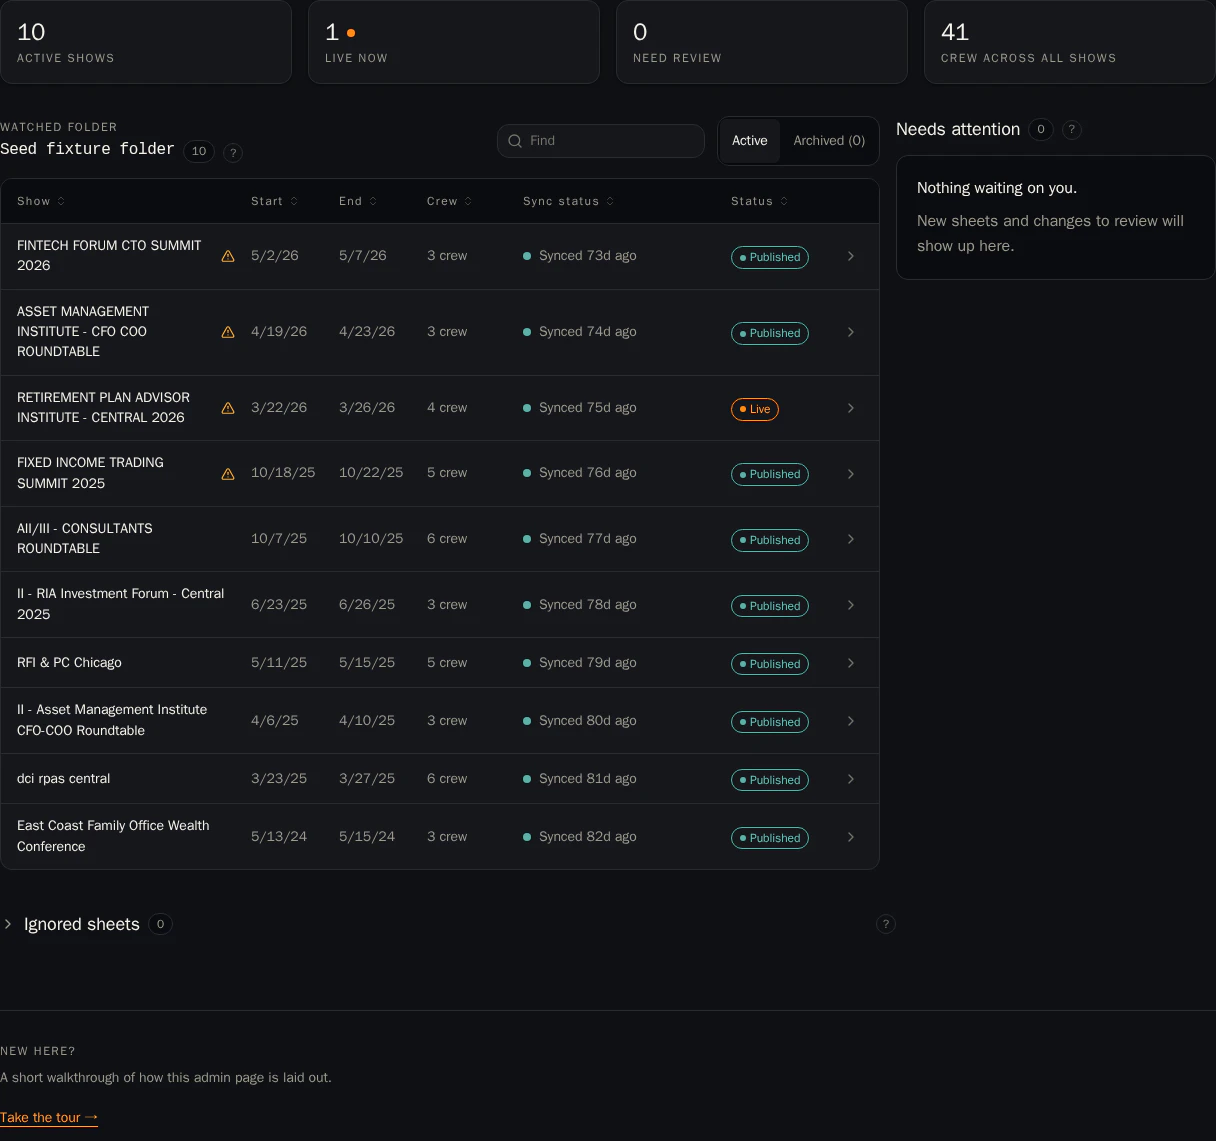
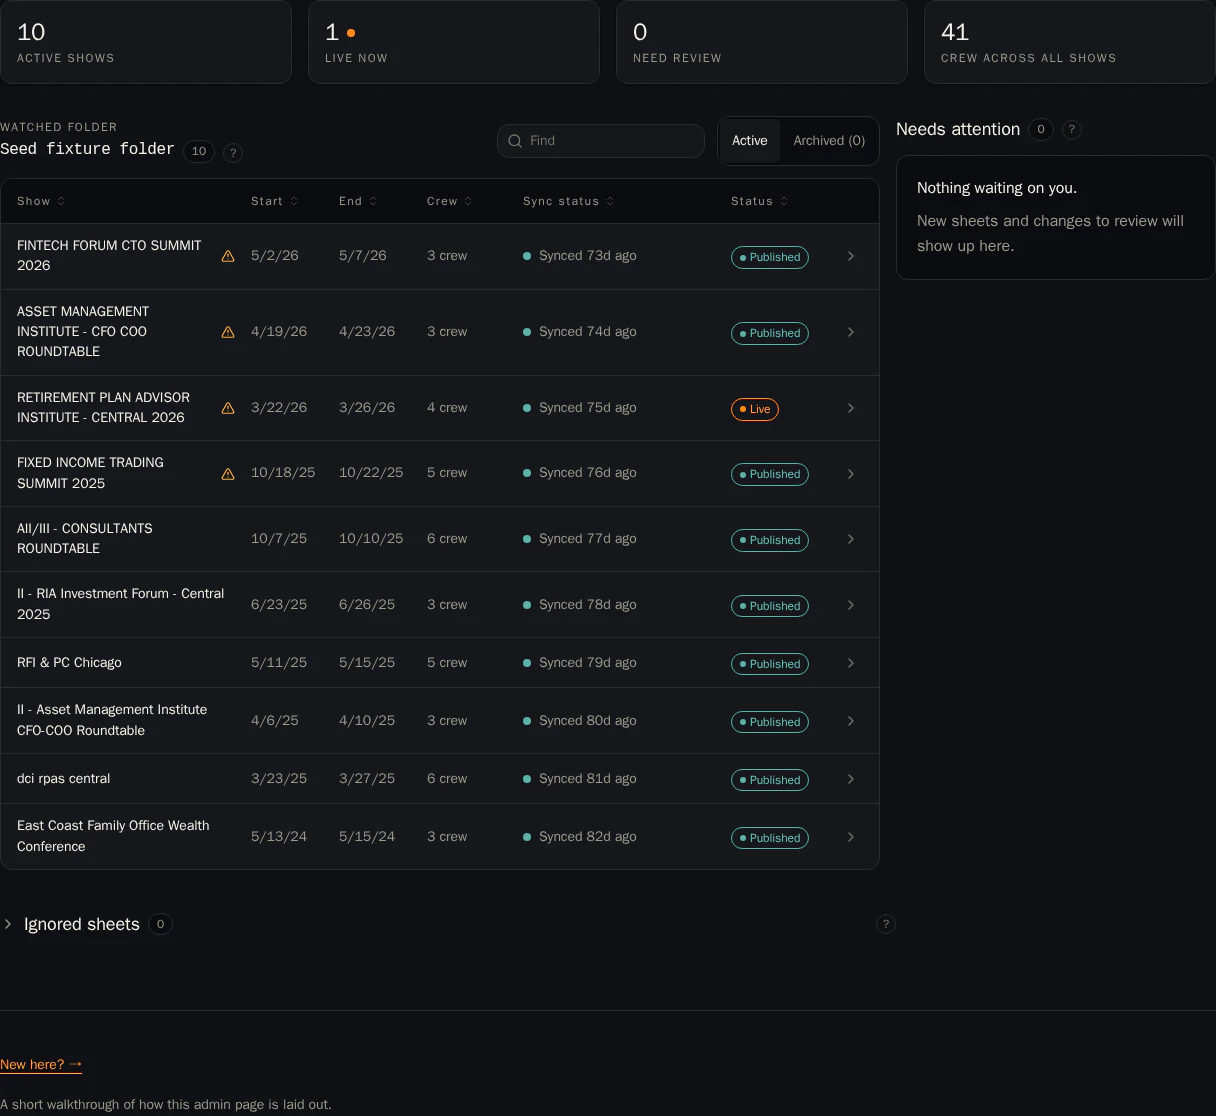
feat(admin): dashboard footer "New here?" prompt is the tour affordance
Retire the redundant "Take the tour →" link; the "New here?" prompt now
links to /help/tour directly (visible text "New here? →"). Preserves the
data-testid, href, aria-label, and single-text-run byte-stability rationale.

Updates the affordance matrix, the pinned footer/affordance unit tests, the
e2e deep-link-walker filter, and the spec §9.0.1 / AC-11.10 rendered-text
contracts to match.

Screenshot baselines (dashboard-overview-{light,dark}.webp) regenerated from
the pinned mcr.microsoft.com/playwright:v1.59.1-jammy image on a native-amd64
runner via the screenshots-regen workflow.

Claude-Session: https://claude.ai/code/session_01DLkG1nUDrjTgEvHf6yN6HM

diff --git a/components/admin/DashboardFooter.tsx b/components/admin/DashboardFooter.tsx
@@ -3,13 +3,16 @@
  *
  * Dashboard footer per spec §5.6 matrix row 4:
  *   - `<a href="/help/tour" data-testid="help-affordance--dashboard-footer--tour">`
- *   - Visible text: "Take the tour →"
+ *   - Visible text: "New here? →"
+ *
+ * The "New here?" prompt IS the affordance — the previously separate
+ * "Take the tour →" link was redundant with it, so the prompt itself now
+ * links to the walkthrough.
  *
  * Phase G.3 supersedes M10's in-product `<Tour />` modal (Tour.tsx deleted).
- * The /help/tour MDX page (Phase E.12) is now the canonical walkthrough;
- * the dashboard footer routes Doug to it directly via this link, in line
- * with the §5.6 template-family pattern of "section affordance → /help
- * deep link."
+ * The /help/tour MDX page (Phase E.12) is the canonical walkthrough; the
+ * dashboard footer routes Doug to it directly via this link, in line with
+ * the §5.6 template-family pattern of "section affordance → /help deep link."
  *
  * Server Component.
  */
@@ -21,27 +24,21 @@ export function DashboardFooter() {
       data-testid="admin-dashboard-footer"
       className="mt-section-gap flex flex-col gap-2 border-t border-border pt-section-gap"
     >
-      <p
-        className="text-xs font-medium uppercase text-text-subtle"
-        style={{ letterSpacing: "var(--tracking-eyebrow)" }}
-      >
-        New here?
-      </p>
-      <p className="text-sm text-text-subtle">
-        A short walkthrough of how this admin page is laid out.
-      </p>
       {/* aria-label drops the decorative "→" from the accessible name without
           splitting the text run (flex containers drop the space between split
           items AND shift text-decoration paint — byte-level screenshot drift
           on dashboard-overview, PR #25 R1/R2). */}
       <Link
         href="/help/tour"
-        aria-label="Take the tour"
+        aria-label="New here?"
         data-testid="help-affordance--dashboard-footer--tour"
         className="inline-flex w-fit min-h-tap-min items-center justify-center rounded-sm text-sm font-medium text-accent-on-bg underline underline-offset-4 transition-colors duration-fast hover:text-accent-hover focus-visible:outline-none focus-visible:ring-2 focus-visible:ring-focus-ring focus-visible:ring-offset-2"
       >
-        Take the tour →
+        New here? →
       </Link>
+      <p className="text-sm text-text-subtle">
+        A short walkthrough of how this admin page is laid out.
+      </p>
     </footer>
   );
 }

diff --git a/tests/components/admin/dashboard-footer-affordance.test.tsx b/tests/components/admin/dashboard-footer-affordance.test.tsx
@@ -3,10 +3,10 @@
  * tests/components/admin/dashboard-footer-affordance.test.tsx
  * (M11 Phase G.3 — concrete-UI affordance test #1 per plan body Step 5b)
  *
- * Pins the dashboard-footer "Take the tour →" affordance per spec §5.6:
+ * Pins the dashboard-footer "New here? →" affordance per spec §5.6:
  *   - testid: help-affordance--dashboard-footer--tour
  *   - href:   /help/tour
- *   - text:   "Take the tour →"
+ *   - text:   "New here? →"
  *
  * Phase G.3 supersedes M10's `<Tour />` in-product modal with a link to
  * /help/tour (the Phase E.12 canonical help page). The old `<Tour />`
@@ -19,12 +19,12 @@ import { DashboardFooter } from "@/components/admin/DashboardFooter";
 afterEach(() => cleanup());
 
 describe("DashboardFooter (Phase G.3 — matrix row 4)", () => {
-  it("renders the matrix-testid'd Take-the-tour link to /help/tour", () => {
+  it("renders the matrix-testid'd New-here link to /help/tour", () => {
     render(<DashboardFooter />);
     const link = screen.getByTestId("help-affordance--dashboard-footer--tour");
     expect(link).toBeInstanceOf(HTMLAnchorElement);
     expect((link as HTMLAnchorElement).getAttribute("href")).toBe("/help/tour");
-    expect(link.textContent).toMatch(/Take the tour/);
+    expect(link.textContent).toMatch(/New here\?/);
   });
 
   // M12.12 follow-up — the "→" is decorative; aria-hiding it keeps it out of
@@ -32,12 +32,12 @@ describe("DashboardFooter (Phase G.3 — matrix row 4)", () => {
   // into the accessible name.
   it("tour-link accessible name drops the decorative → (aria-label), visible text keeps it", () => {
     render(<DashboardFooter />);
-    const link = screen.getByRole("link", { name: "Take the tour" });
-    expect(link.getAttribute("aria-label")).toBe("Take the tour");
+    const link = screen.getByRole("link", { name: "New here?" });
+    expect(link.getAttribute("aria-label")).toBe("New here?");
     // The visible text run stays UNSPLIT — wrapping the arrow in a span
     // shifts text-decoration paint and (on this flex container) drops the
     // space before the arrow, both byte-level screenshot drift (PR #25 R1/R2).
-    expect(link.textContent).toBe("Take the tour →");
+    expect(link.textContent).toBe("New here? →");
     expect(link.firstElementChild).toBeNull();
   });
 

diff --git a/tests/components/admin/dashboardFooterLink.test.tsx b/tests/components/admin/dashboardFooterLink.test.tsx
@@ -1,8 +1,8 @@
 // @vitest-environment jsdom
-// Phase 2 (nav-perf) Workstream C2 — DashboardFooter "Take the tour" affordance
+// Phase 2 (nav-perf) Workstream C2 — DashboardFooter "New here?" affordance
 // must be a next/link <Link> (client soft-nav) rather than a bare <a> (which is a
 // full document reload that re-runs the force-dynamic /help layout). The visible
-// single text run "Take the tour →", aria-label, and data-testid are preserved
+// single text run "New here? →", aria-label, and data-testid are preserved
 // (byte-stable screenshot rationale, DashboardFooter.tsx:31-34).
 import "@testing-library/jest-dom/vitest";
 import type { ReactNode } from "react";
@@ -23,7 +23,7 @@ import { DashboardFooter } from "@/components/admin/DashboardFooter";
 
 afterEach(cleanup);
 
-describe("DashboardFooter — Take the tour (Phase 2 C2)", () => {
+describe("DashboardFooter — New here? (Phase 2 C2)", () => {
   it("renders the tour affordance via next/link (client nav, not a full-reload anchor)", () => {
     const { getByTestId } = render(<DashboardFooter />);
     const el = getByTestId("help-affordance--dashboard-footer--tour");
@@ -31,8 +31,8 @@ describe("DashboardFooter — Take the tour (Phase 2 C2)", () => {
     // proves it came from next/link (the mock marks it); a bare <a> would not.
     expect(el).toHaveAttribute("data-mocked-next-link", "true");
     expect(el).toHaveAttribute("href", "/help/tour");
-    expect(el).toHaveAttribute("aria-label", "Take the tour");
+    expect(el).toHaveAttribute("aria-label", "New here?");
     // single text run preserved — no split (flex would drop the space + shift paint).
-    expect(el.textContent).toBe("Take the tour →");
+    expect(el.textContent).toBe("New here? →");
   });
 });

diff --git a/app/help/_affordanceMatrix.ts b/app/help/_affordanceMatrix.ts
@@ -88,9 +88,9 @@ export const AFFORDANCE_MATRIX: ReadonlyArray<AffordanceRow> = [
   },
   {
     kind: "concrete",
-    sourceSurface: "Dashboard footer - Take the tour",
+    sourceSurface: "Dashboard footer - New here?",
     sourceRoute: "/admin",
-    affordance: "Take the tour",
+    affordance: "New here?",
     testid: "help-affordance--dashboard-footer--tour",
     target: "/help/tour",
     visibleAt: "both",

diff --git a/tests/e2e/deep-link-walker.spec.ts b/tests/e2e/deep-link-walker.spec.ts
@@ -203,7 +203,7 @@ async function assertTarget(root: ReturnType<Page["getByTestId"]>, row: Concrete
 
   const nested = root
     .locator("a")
-    .filter({ hasText: /Learn more|Take the tour/i })
+    .filter({ hasText: /Learn more|New here\?/i })
     .first();
   await expect(nested, `${row.testid} nested link`).toBeVisible();
   const nestedHref = await nested.getAttribute("href");

diff --git a/docs/superpowers/specs/v1-pre-deployment-amendments/2026-05-12-user-facing-docs-design.md b/docs/superpowers/specs/v1-pre-deployment-amendments/2026-05-12-user-facing-docs-design.md
@@ -335,7 +335,7 @@ A meta-test (`tests/messages/_metaErrorCatalogDocs.test.ts`) asserts the catalog
 | Section header "?" tooltip | §9.0.1 | Trailing "Learn more →" link to the relevant `/help/...` page. Conditional on `helpHref` presence; degrades cleanly when absent. |
 | Parse warning row | §9.2 | Sibling `Learn more →` button next to "Report this to Eric"; resolves to `/help/admin/parse-warnings#<code>` via `messageFor(code).helpHref`. |
 | Error toast / banner | §12.4 | Inline `Learn more →` when `messageFor(code).helpHref` is non-null. Single change point in the rendering helper. |
-| Dashboard footer "Take the tour" | §9.0.1 | `<Link href="/help/tour">Take the tour →</Link>`. |
+| Dashboard footer "New here?" | §9.0.1 | `<Link href="/help/tour">New here? →</Link>` (the prompt itself is the affordance; the separate "Take the tour →" link was retired as redundant). |
 | "What does this mean?" expansion on errors | §9.0.1 | Body text stays as the M9/M10-shipped copy; appended `Learn more →` link to `/help/errors#<code>`. |
 
 The retrofit is **link-only**. This milestone does not change the text content of any tooltip, error message, or expansion shipped by M4/M9/M10.
@@ -372,7 +372,7 @@ Every `?` tooltip / "Learn more" / "What does this mean?" / "Take the tour" link
 | Needs attention page header (`/admin/needs-attention`) | `/admin/needs-attention` | `?` tooltip | `help-affordance--needs-attention-page--tooltip` | `/help/admin/review-queues#first-seen` | both | M12.12 |
 | Dashboard - Review staged changes legend link | `/admin` | legend link | `help-affordance--dashboard-restage--legend` | `/help/admin/review-queues#re-stage` | both | M12.12 |
 | Dashboard - Archived shows bucket header (`?bucket=archived`) | `/admin?bucket=archived` | `?` tooltip | `help-affordance--dashboard-archived-shows--tooltip` | `/help/admin/dashboard#archived` | both | M12.12 |
-| Dashboard footer - Take the tour | `/admin` | Take the tour | `help-affordance--dashboard-footer--tour` | `/help/tour` | both | M9 |
+| Dashboard footer - New here? | `/admin` | New here? | `help-affordance--dashboard-footer--tour` | `/help/tour` | both | M9 |
 | Per-show - Sync health footer strip | `/admin/show/rpas-central-2026` | `?` tooltip | `help-affordance--per-show-sync-footer--tooltip` | `/help/admin/per-show-panel#sync-health` | both | M12.12 |
 | Per-show - Alerts section header | `/admin/show/rpas-central-2026` | `?` tooltip | `help-affordance--per-show-alerts--tooltip` | `/help/admin/parse-warnings` | both | M12.12 |
 | Per-show - Crew section header | `/admin/show/rpas-central-2026` | `?` tooltip | `help-affordance--per-show-crew--tooltip` | `/help/admin/preview-as-crew` | both | M12.12 |
@@ -705,7 +705,7 @@ All citations in this table cite `file:line` as required by AGENTS.md self-revie
 | **AC-11.7** | The build-time anchor resolver passes — every `helpHref` resolves to a real `<RefAnchor>` on a real page. |
 | **AC-11.8** | Parse-warning rows in the §9.2 panel render a `Learn more →` link when `helpHref` is present. |
 | **AC-11.9** | Dashboard tooltips per §9.0.1 render a trailing `Learn more →` link when their mapped page exists. |
-| **AC-11.10** | Dashboard footer renders `Take the tour →` linking to `/help/tour`. |
+| **AC-11.10** | Dashboard footer renders `New here? →` linking to `/help/tour` (the "New here?" prompt is itself the affordance; the separate "Take the tour →" link was retired as redundant). |
 | **AC-11.11** | `/help/errors` iterates the catalog and renders one anchored section per entry matching the AC-11.6 predicate — `severity !== "info"` AND `dougFacing != null`. Each section's visible heading is `entry.title` (NOT the code — invariant #5). Body is `entry.longExplanation`. **Trailing call-to-action (r10 corrected per round-8 finding 5):** the trailing link is "If this keeps happening, tell Eric →". The original AC text named "the bug-report flow (per §4.3)" as the target; the Phase I Codex R1 review (2026-05-22) surfaced that master-spec §13.1 defines four SHOW-SCOPED bug-report surfaces and no non-show-scoped recurrence-report surface exists. **r11 amendment (Phase I Codex R1):** for v1, the trailing CTA is a `mailto:[email redacted]` link with subject/body pre-populated for the recurrence-report use case. The non-show-scoped report surface is deferred per `docs/superpowers/plans/v1-pre-deployment-amendments/2026-05-12-user-facing-docs/DEFERRED.md` `M11-I-D-1` + speculative future surface tracked at `docs/superpowers/plans/BACKLOG.md` `BL-HELP-NON-SHOW-REPORT-SURFACE`. The `Learn more →` affordance lives on the SOURCE surfaces (admin pages where the error renders) per §5.6 matrix — `/help/errors` is the destination, not a hop. |
 | **AC-11.12** | All 17 unit/integration tests in §7.1 (items 1–10 plus 12 + 13 + 14 + 15 + 16 + 17 + 18) pass; nav-consistency, anchor-resolver, screenshot-coverage, manifest-integrity, `<picture>`-contract, error-renderer-gate (4 contexts), deep-link-walker, fixture-range-parser, `lib/time/now.ts`-gate, server-time grep-guard, catalog-alignment meta-test, and end-to-end clock-pipeline proof are red on the conditions they guard. CI drift gate (§7.1 item 11) is wired and fails on uncommitted screenshot drift. |
 | **AC-11.13** | `/impeccable critique` and `/impeccable audit` pass on every `app/help/*` page (per invariant #8). |